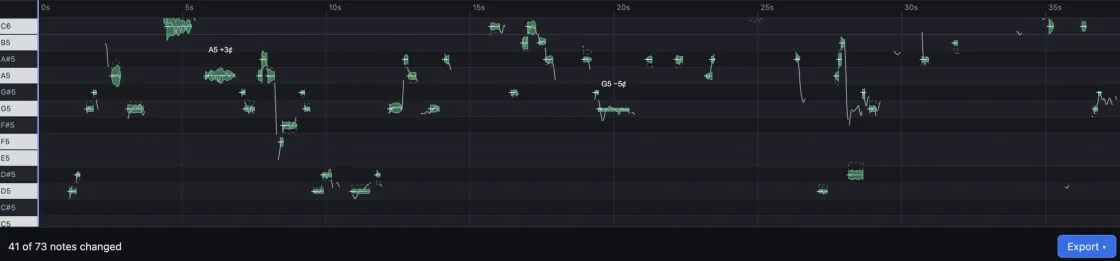
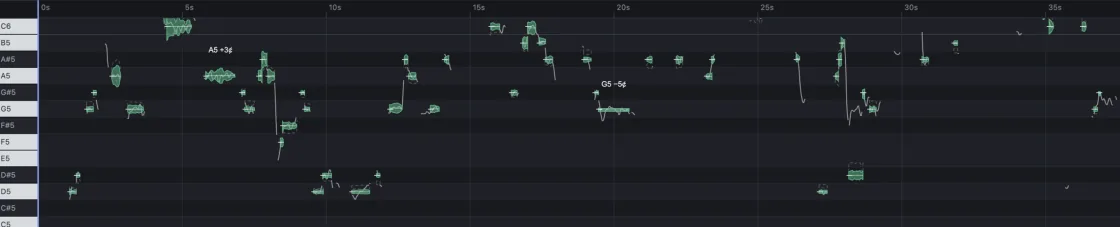
visual revamp

diff --git a/src/index.css b/src/index.css
@@ -235,6 +235,19 @@ a.btn-primary:active {
   background: var(--ink);
   color: var(--paper);
 }
+/* On dark images: paper → rust on hover is a clear change, where rust → rust-press would barely show. */
+.btn-paper {
+  background: var(--paper);
+  color: var(--ink);
+}
+.btn-paper:hover {
+  background: var(--rust);
+  color: var(--paper);
+}
+a.btn-paper:active {
+  background: var(--rust-press);
+  transform: translateY(1px);
+}
 
 /* ---------- §3.2 Header (sized to the fauststudio.net banner; not sticky) ---------- */
 
@@ -523,107 +536,38 @@ a.btn-primary:active {
   margin-top: var(--space-2);
   color: var(--ink-2);
 }
-/* Screenshot banner: the image and the button share one grid cell, so the button sits centred on the image. */
+/* Tool screenshot (A8) with the CTA centred on it. Below ~1050 px min-height wins and the image crops from the
+   right, so the piano keys stay in view. No overflow: hidden (it would turn off aspect-ratio's content minimum). */
 .how-banner {
-  display: grid;
+  --focus: var(--paper);
+  position: relative;
+  display: flex;
+  align-items: center;
+  justify-content: center;
+  width: 100%; /* without it, aspect-ratio turns min-height into a ~990 px min-width */
+  aspect-ratio: 2956 / 597;
+  min-height: 200px;
   margin-top: var(--space-7);
-}
-.how-banner > * {
-  grid-area: 1 / 1;
+  padding: var(--space-4);
+  border-radius: var(--radius-md);
+  background: var(--night);
 }
 .how-banner img {
-  display: block;
+  position: absolute;
+  inset: 0;
   width: 100%;
-  height: auto;
+  height: 100%;
+  object-fit: cover;
+  object-position: left;
+  border-radius: inherit;
+  filter: brightness(0.6);
 }
-.how-cta {
-  place-self: center;
-}
-
-/* ---------- §4.3 Before / after ---------- */
-
-.player {
-  max-width: 760px;
-  padding: var(--space-5);
-  border: 1px solid var(--line-strong);
-  border-top: var(--rule);
-  border-radius: 0 0 var(--radius-md) var(--radius-md);
-  background: var(--paper);
-}
-.player-tag {
-  width: fit-content;
-  margin: 0 0 var(--space-2) auto;
-  padding: var(--space-1) var(--space-2);
-  border: 1px solid var(--line-strong);
-  color: var(--ink-2);
-}
-.track {
-  display: grid;
-  grid-template-columns: 64px 48px minmax(0, 11rem) 1fr auto;
-  grid-template-areas: 'label play title wave time';
-  align-items: center;
-  gap: var(--space-4);
-  padding-block: var(--space-4);
-}
-.track + .track {
-  border-top: 1px solid var(--line);
-}
-.track-label {
-  grid-area: label;
-  color: var(--ink-2);
-}
-.track-title {
-  grid-area: title;
-}
-.track-time {
-  grid-area: time;
-  font-size: var(--text-small);
-  font-variant-numeric: tabular-nums;
-  color: var(--ink-2);
-}
-.play {
-  grid-area: play;
-  display: grid;
-  place-items: center;
-  width: 48px;
-  height: 48px;
-  border: 0;
-  border-radius: var(--radius-full);
-  background: var(--ink);
-  color: var(--paper);
-}
-.play:disabled {
-  border: 1px solid var(--line-strong);
-  background: transparent;
-  color: var(--ink-3);
-  cursor: not-allowed;
-}
-.waveform {
-  grid-area: wave;
-  width: 100%;
-  height: 32px;
-  stroke: var(--line);
-  stroke-width: 1;
-}
-.player-link {
-  display: inline-block;
-  margin-top: var(--space-5);
-}
-@media (max-width: 639px) {
-  .player {
-    padding: var(--space-4);
-  }
-  .track {
-    grid-template-columns: 64px 48px 1fr;
-    grid-template-areas:
-      'label play title'
-      'wave wave wave'
-      'time time time';
-    row-gap: var(--space-2);
-  }
-  .track-time {
-    justify-self: end;
-  }
+.how-banner .btn {
+  position: relative; /* paints above the absolutely positioned img */
+  white-space: normal; /* wraps only at large text sizes or for long labels */
+  text-align: center;
+  line-height: 1.2;
+  padding-block: var(--space-2);
 }
 
 /* ---------- §4.4 The studio ---------- */
@@ -879,6 +823,7 @@ details[open] .faq-icon {
 
 @media (prefers-reduced-motion: reduce) {
   a.btn-primary:active,
+  a.btn-paper:active,
   .cta-box:active .btn-primary,
   .card:hover .card-photo,
   details[open] .faq-icon {

diff --git a/src/copy/cs.ts b/src/copy/cs.ts
@@ -61,18 +61,6 @@ export const cs: Copy = bindOneLetterWords({
     // TODO(cs-review)
     imageAlt: 'Editor ladění v nástroji: každá zazpívaná nota rozložená podle klaviatury.',
   },
-  beforeAfter: {
-    eyebrow: 'Poslechněte si',
-    heading: 'Slyšte ten rozdíl',
-    lead: 'Stejný záznam rovnou z mikrofonu a po pár minutách ladění.',
-    tag: 'Ukázky brzy',
-    // TODO(cs-review): the row labels render uppercase; a screen reader may spell the 2-letter "PO" out letter by letter.
-    tracks: [
-      { label: 'Před', title: 'Surový záznam', play: 'Přehrát ukázku před' },
-      { label: 'Po', title: 'Po naladění', play: 'Přehrát ukázku po' },
-    ],
-    link: 'Vyzkoušejte to s vlastním zpěvem',
-  },
   studio: {
     eyebrow: 'Studio za nástrojem',
     heading: 'Vzniklo ve Faust Studiu v Praze',

diff --git a/src/sections/HowItWorks.tsx b/src/sections/HowItWorks.tsx
@@ -31,17 +31,17 @@ export function HowItWorks() {
           })}
         </ol>
         {/* Screenshot banner with the CTA centred on it. Only the button is a link (one tab stop). */}
-        <div className="how-banner night">
+        <div className="how-banner">
           <img
             src={shot1x}
             srcSet={`${shot1x} 1120w, ${shot2x} 2240w`}
             sizes="(min-width: 1184px) 1120px, 100vw"
             width={1120}
-            height={261}
+            height={227}
             alt={how.imageAlt}
             loading="lazy"
           />
-          <a className="btn btn-primary how-cta" href={TOOL_URL}>
+          <a className="btn btn-paper" href={TOOL_URL}>
             {how.button}
           </a>
         </div>

diff --git a/src/copy/en.ts b/src/copy/en.ts
@@ -45,17 +45,6 @@ export const en = {
     button: 'Open the tuner',
     imageAlt: "The tuner's pitch editor: every sung note laid out against a piano keyboard.",
   },
-  beforeAfter: {
-    eyebrow: 'Listen',
-    heading: 'Hear the difference',
-    lead: 'The same take, straight from the mic and after a few minutes in the tuner.',
-    tag: 'Samples coming soon',
-    tracks: [
-      { label: 'Before', title: 'Raw take', play: 'Play before sample' },
-      { label: 'After', title: 'Tuned in the tuner', play: 'Play after sample' },
-    ],
-    link: 'Try it with your own vocal',
-  },
   studio: {
     eyebrow: 'The studio behind the tool',
     heading: 'Made at Faust Studio, Prague',

diff --git a/src/App.tsx b/src/App.tsx
@@ -1,4 +1,3 @@
-import { BeforeAfter } from './sections/BeforeAfter'
 import { Faq } from './sections/Faq'
 import { Footer } from './sections/Footer'
 import { Header } from './sections/Header'
@@ -14,7 +13,6 @@ export default function App() {
       <main id="main">
         <Hero />
         <HowItWorks />
-        <BeforeAfter />
         <Studio />
         <NextStep />
         <Faq />

diff --git a/docs/design-spec.md b/docs/design-spec.md
@@ -160,6 +160,7 @@ label.
 |---|---|
 | Primary | `--rust` bg, `--paper` text, Jost 600 17 px, height 52 px, padding 0 28 px, `--radius-sm`. Hover/active: `--rust-press`. Active: `translateY(1px)`. |
 | Secondary | Transparent, 2 px `--ink` border, `--ink` text, same size. Hover: `--ink` bg, `--paper` text. On night: `--paper` border/text. |
+| Paper (on images) | For a button over a dark image (§4.2 banner). `--paper` bg, `--ink` text, same size. Hover: `--rust` bg, `--paper` text. Active: `--rust-press` and `translateY(1px)` (no transform under reduced motion). Focus: the standard 3 px ring in `--paper`; the 3 px offset shows the dark image between the ring and the button. |
 | Text link | Inherits text color. `text-decoration: underline 1px var(--rust)` (on night: `--ember`), `text-underline-offset: 3px`. Hover: thickness 2px. |
 | Outbound link | Text link + Lucide `ArrowUpRight` 16 px. Opens in the **same tab**. |
 
@@ -241,6 +242,9 @@ line art, matched to their scale approximately, as the user asked.
 
 Every section is a `<section aria-labelledby="…">` with one h2. The only h1 is in the hero.
 
+Page order (2026-10-25): Header → Hero (paper) → How it works (paper, ending in the dark tool banner) →
+The studio (night) → Next step (paper) → FAQ (paper-2) → Footer (night). Before/after (§4.3) was removed.
+
 ### 4.1 Hero
 
 **Layout, desktop (≥1024):** `--paper` background, centered column, max-width 880. Padding is 96 top and 96
@@ -302,9 +306,51 @@ Use an `<ol>` so screen readers announce the order. The visual numbers are `aria
 Icons: `Upload`, `AudioLines`, `WandSparkles`, `Download`. Step 03 is the fastest "wow", so it leads with
 Tune Up. Drag-to-fix is the second half of the same step.
 
-Under the grid there's a secondary button, "Open the tuner" → `tool/`, left-aligned with 48 px above it.
+**Tool banner (2026-10-25):** 48 px under the grid, a screenshot of the tuner's pitch editor (A8) with the
+"Open the tuner" button (→ `tool/`) centred on it. It's the last thing in the section, so the section's own
+bottom padding (96, or 64 below 1024) is the cream gap before the night Studio band. That join needs nothing
+extra: 48 px above the banner vs 96/64 below groups it with the steps, and a contained, rounded image above
+a full-bleed band reads as two different things (checked at 1440 and 375, 2026-10-25).
 
-### 4.3 Before / after
+```
+ ┌──────────────────────────────────────────────────────────────┐  container width, --radius-md,
+ │ C6 ▒ ░░     ░      ░░     ░            ░                     │  --night behind the image,
+ │ B5 ▒   ░░       ┌──────────────────┐        ░░    ░          │  image dimmed to 60%
+ │ A5 ▒ ░    ░     │  Open the tuner  │   ░          ░░         │  ← .btn .btn-paper, centred
+ │ G5 ▒   ░░       └──────────────────┘      ░            ░     │
+ │ D5 ▒  ░      ░░          ░                  ░                │
+ └──────────────────────────────────────────────────────────────┘
+```
+
+- **Asset:** `howto.png` cropped to rows 0–596 (2956 × 597). This removes the tool's status bar ("41 of 73
+  notes changed" and the blue "Export ▾" button), which would read as a second, fake button. Export it as
+  WebP at 1120 and 2240 px wide (`srcset`; cwebp rounds them to 1120 × 227 and 2240 × 453), with the
+  `<img>` `width`/`height` matching the real files, lazy loaded.
+- **Box:** `position: relative`, flex, centred both ways; `width: 100%`, `aspect-ratio: 2956 / 597`,
+  `min-height: 200px` (without the explicit width, aspect-ratio turns the min-height into a ~990 px min-width
+  and the page scrolls sideways at 375),
+  padding 16, `--radius-md`, `--night` background. No border: the dark image against `--paper` defines its own
+  edge. No `overflow: hidden` (it would turn off the aspect-ratio box's content-size minimum).
+- **Image:** `position: absolute; inset: 0`, `width/height: 100%`, `object-fit: cover`,
+  `object-position: left`, `border-radius: inherit`, `filter: brightness(0.6)`. At ≥ ~1050 px viewports the
+  box matches the image ratio, so nothing is cropped. Below that, `min-height` wins and the image is cropped
+  from the right, so it always starts at the piano keys and the first seconds of notes. The image stays at
+  roughly the same scale at every width (about 0.33–0.38).
+- **Button:** `.btn .btn-paper` (§3.1), `position: relative` so it paints above the image. Only the button is
+  a link. The image is not clickable, so there's one link and one tab stop. Inside the banner,
+  `--focus: var(--paper)`.
+- **Text zoom / long labels:** inside the banner the button may wrap rather than overflow:
+  `white-space: normal; text-align: center; line-height: 1.2; padding-block: var(--space-2)`. At the default
+  size it never wraps and looks identical to §3.1 (the 52 px min-height dominates).
+- **Mobile (375):** 343 × 200 box. The image keeps its left edge (piano keys) and is cropped on the right. The button keeps its natural width (it doesn't
+  stretch like the hero button), with about 74 px of screenshot above and below it.
+- **Alt text:** in `copy/en.ts` and `cs.ts` (`TODO(cs-review)`). Describe the editor (notes shown on a
+  piano-roll grid), not "screenshot of", and don't say "Auto-Tune".
+
+### 4.3 Before / after (removed)
+
+> **Removed from v1 by the user, 2026-10-25; parked as a v2 idea** (a working player once real, consented
+> audio exists, asset A6). The design below is kept so it can be restored. Nothing in it applies to v1.
 
 **Layout:** `--paper-2` section background. The eyebrow, h2 and lead are left-aligned. Then one player card,
 max-width 760: `--paper` background, 2 px `--ink` top rule, 1px `--line-strong` on the other three sides,
@@ -445,7 +491,7 @@ word appears only in the meta description, for search.
 - 04 · **Download**: Export a full-quality 24-bit WAV, or a smaller 192 kbps MP3.
 - Button: Open the tuner
 
-**Before / after**
+**Before / after** (removed 2026-10-25, see §4.3; kept for v2, not in v1 copy)
 - Eyebrow: Listen
 - H2: Hear the difference
 - Lead: The same take, straight from the mic and after a few minutes in the tuner.
@@ -547,7 +593,8 @@ Faust Studio (or approve it) with permission to use it.
 | A3 | Blue Studio photo (different angle or the live room) | Next step card 1 | ≥1200 × 900 | "" (decorative; the card title names it) |
 | A4 | Green Studio photo | Next step card 2 | ≥1200 × 900 | "" |
 | A5 | Course or session in progress (people, synth lab) | Next step card 3 | ≥1200 × 900 | "" |
-| A6 | Before/after audio: the same vocal take, raw and tuned | Before/after | 15–30 s each, MP3 192 kbps, loudness-matched, signed singer consent | n/a (labelled by row) |
+| A6 (parked, v2) | Before/after audio: the same vocal take, raw and tuned. Not needed for v1: §4.3 was removed 2026-10-25 | Before/after (v2) | 15–30 s each, MP3 192 kbps, loudness-matched, signed singer consent | n/a (labelled by row) |
+| A8 ✅ | Tool screenshot: `src/assets/howto.png`, 2956 × 688 | How it works banner (§4.2) | Crop to rows 0–596 (drops the status bar), WebP 1120 + 2240 w | Programmer's, in `copy/*.ts` |
 | A7 | Social share image (optional) | `og:image` | 1200 × 630, A2 cropped with the emblem, or the A1 illustration on `--paper` with the wordmark | n/a |
 
 Export photos as AVIF/WebP with a JPEG fallback and set `width`/`height`. Images below the hero are lazy
@@ -563,7 +610,7 @@ loaded. Photos are not filtered or tinted. The warmth comes from the photography
   pipeline). Use WebP lossless with alpha: header `light` at 44 and 88 px (1x/2x), footer `dark` at 96 and
   192 px, studio `dark` at 360 and the original 512 px (`srcset` 1x/2x). Set `width`/`height` on every `<img>`.
   The header emblem is eager-loaded; the footer and studio art use `loading="lazy"`.
-- Audio: the disabled player state in §4.3.
+- Audio: none in v1. (Was the disabled player state in §4.3, removed 2026-10-25.)
 
 ---
 
@@ -574,7 +621,8 @@ loaded. Photos are not filtered or tinted. The warmth comes from the photography
       landmarks are present.
 - [ ] The hero CTA is the first tab stop after the skip link and language switch. Enter opens `tool/`.
 - [ ] Focus is visible on every interactive element, on both paper and night.
-- [ ] Play buttons have changing `aria-label`s and are `disabled` while there are no samples.
+- [ ] ~~Play buttons have changing `aria-label`s and are `disabled` while there are no samples.~~ n/a in v1
+      (Before/after removed 2026-10-25).
 - [ ] FAQ uses `<details>/<summary>`.
 - [ ] Outbound links make sense out of context (no "click here").
 - [ ] `<html lang>` follows the language switch.

diff --git a/docs/landing-v1-spec.md b/docs/landing-v1-spec.md
@@ -32,16 +32,18 @@ Faust Studio as the next step.
    Visually it can read as the remove.bg-style "one big box", but it is a link. A real drop zone that hands
    the file to the tool is out of scope (it needs tool-team changes).
 2. **How it works:** 3–4 steps: upload, see your notes, drag to fix, export WAV/MP3. Must match what the
-   tool actually does today.
-3. **Before / after:** a two-track player layout. We have no real samples yet: use clearly marked
-   placeholder audio slots and list them as a TODO.
-4. **The studio:** Faust Studio, Prague, recording since 1991. Take facts only from fauststudio.net. Anything
+   tool actually does today. Under the steps: a banner screenshot of the tool's pitch editor with the
+   "Open the tuner" button centred on it (one link, one tab stop). Added 2026-10-25.
+3. **The studio:** Faust Studio, Prague, recording since 1991. Take facts only from fauststudio.net. Anything
    unverified gets a visible `TODO(verify)` comment in the source, not invented copy.
-5. **Next step:** book a session / take a course, modeled on Abbey Road's rooms and services. Links go to the
+4. **Next step:** book a session / take a course, modeled on Abbey Road's rooms and services. Links go to the
    relevant fauststudio.net pages.
-6. **FAQ:** including "Is it free?", "Does my audio get uploaded?" (no, it runs in your browser), "Which files
+5. **FAQ:** including "Is it free?", "Does my audio get uploaded?" (no, it runs in your browser), "Which files
    work?" (WAV, MP3, OGG, FLAC, up to 100 MB / 10 min), and "Do I need an account?"
-7. **Footer:** Faust Studio contact link, language switch.
+6. **Footer:** Faust Studio contact link, language switch.
+
+A "Before / after" two-track player section was in v1 with placeholder audio. The user removed it on
+2026-10-25 as unnecessary for the page.
 
 ## Honesty rules for copy
 
@@ -73,7 +75,7 @@ has none.
 
 ## Out of scope for v1
 
-A working upload box in the hero, email collection/storage, real before/after audio, analytics, custom domain,
+A working upload box in the hero, email collection/storage, a before/after audio section, analytics, custom domain,
 Vercel deployment, and any changes to the autotuner repo.
 
 ## Who does what
